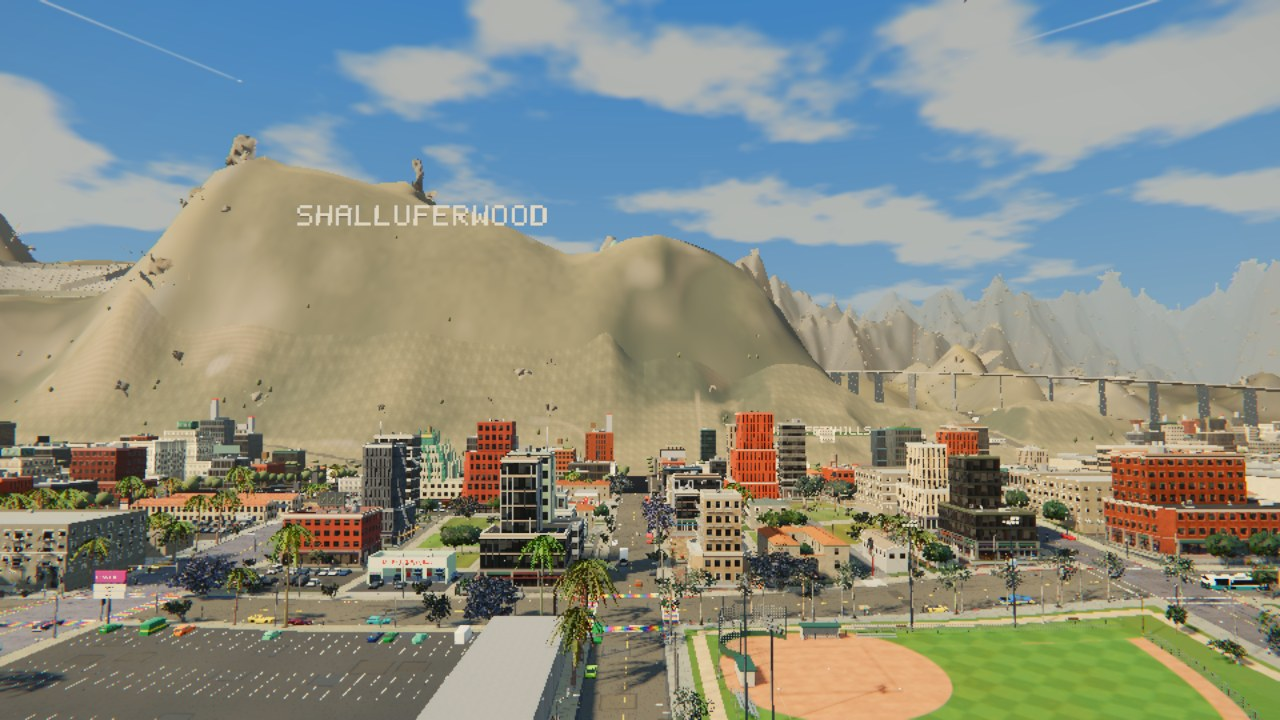
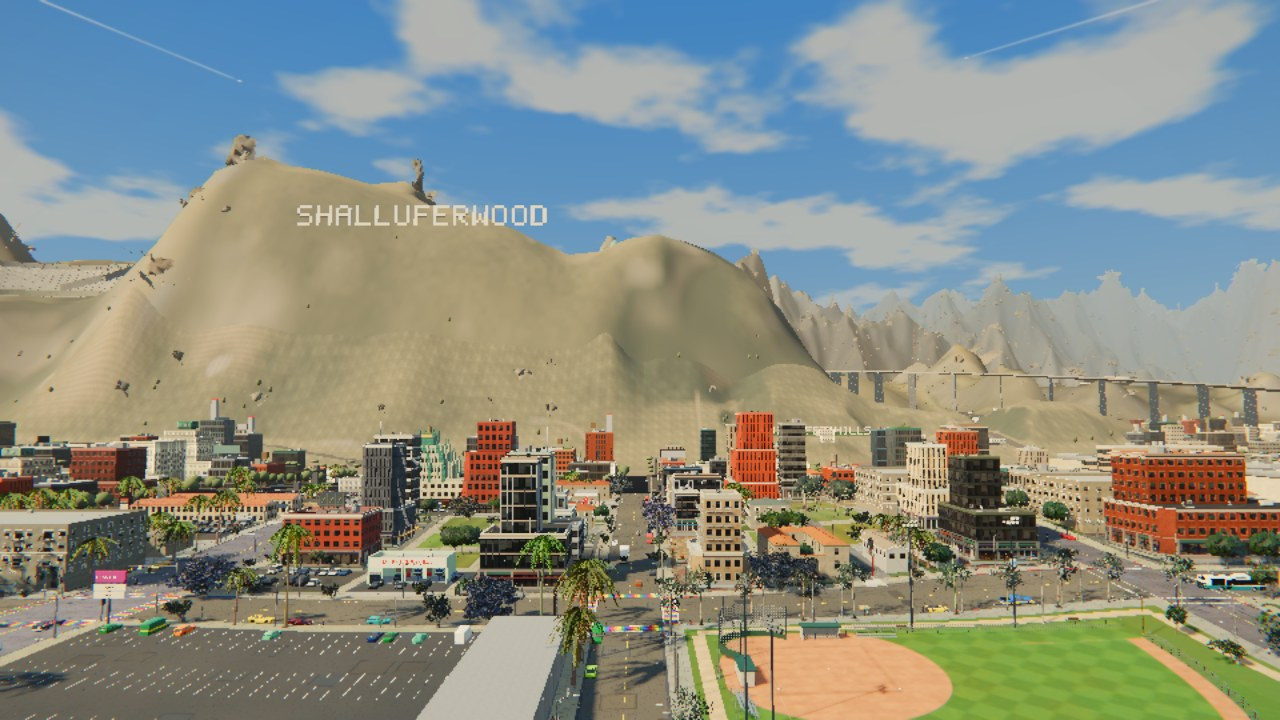
rock-outcrops: final afters (darker far crags)

diff --git a/README.md b/README.md
@@ -1,6 +1,6 @@
 # rock-outcrops stills (wt/rock-outcrops)
 
-opengl3 (Compatibility) stills, 1280x720, `tools/glshot/still_shot.gd`; "before" is the same build with `ROCKS=0`.
+opengl3 (Compatibility) stills, 1280x720 (the afters re-shot after the far crags were darkened), `tools/glshot/still_shot.gd`; "before" is the same build with `ROCKS=0`.
 
 | file | what |
 |---|---|
